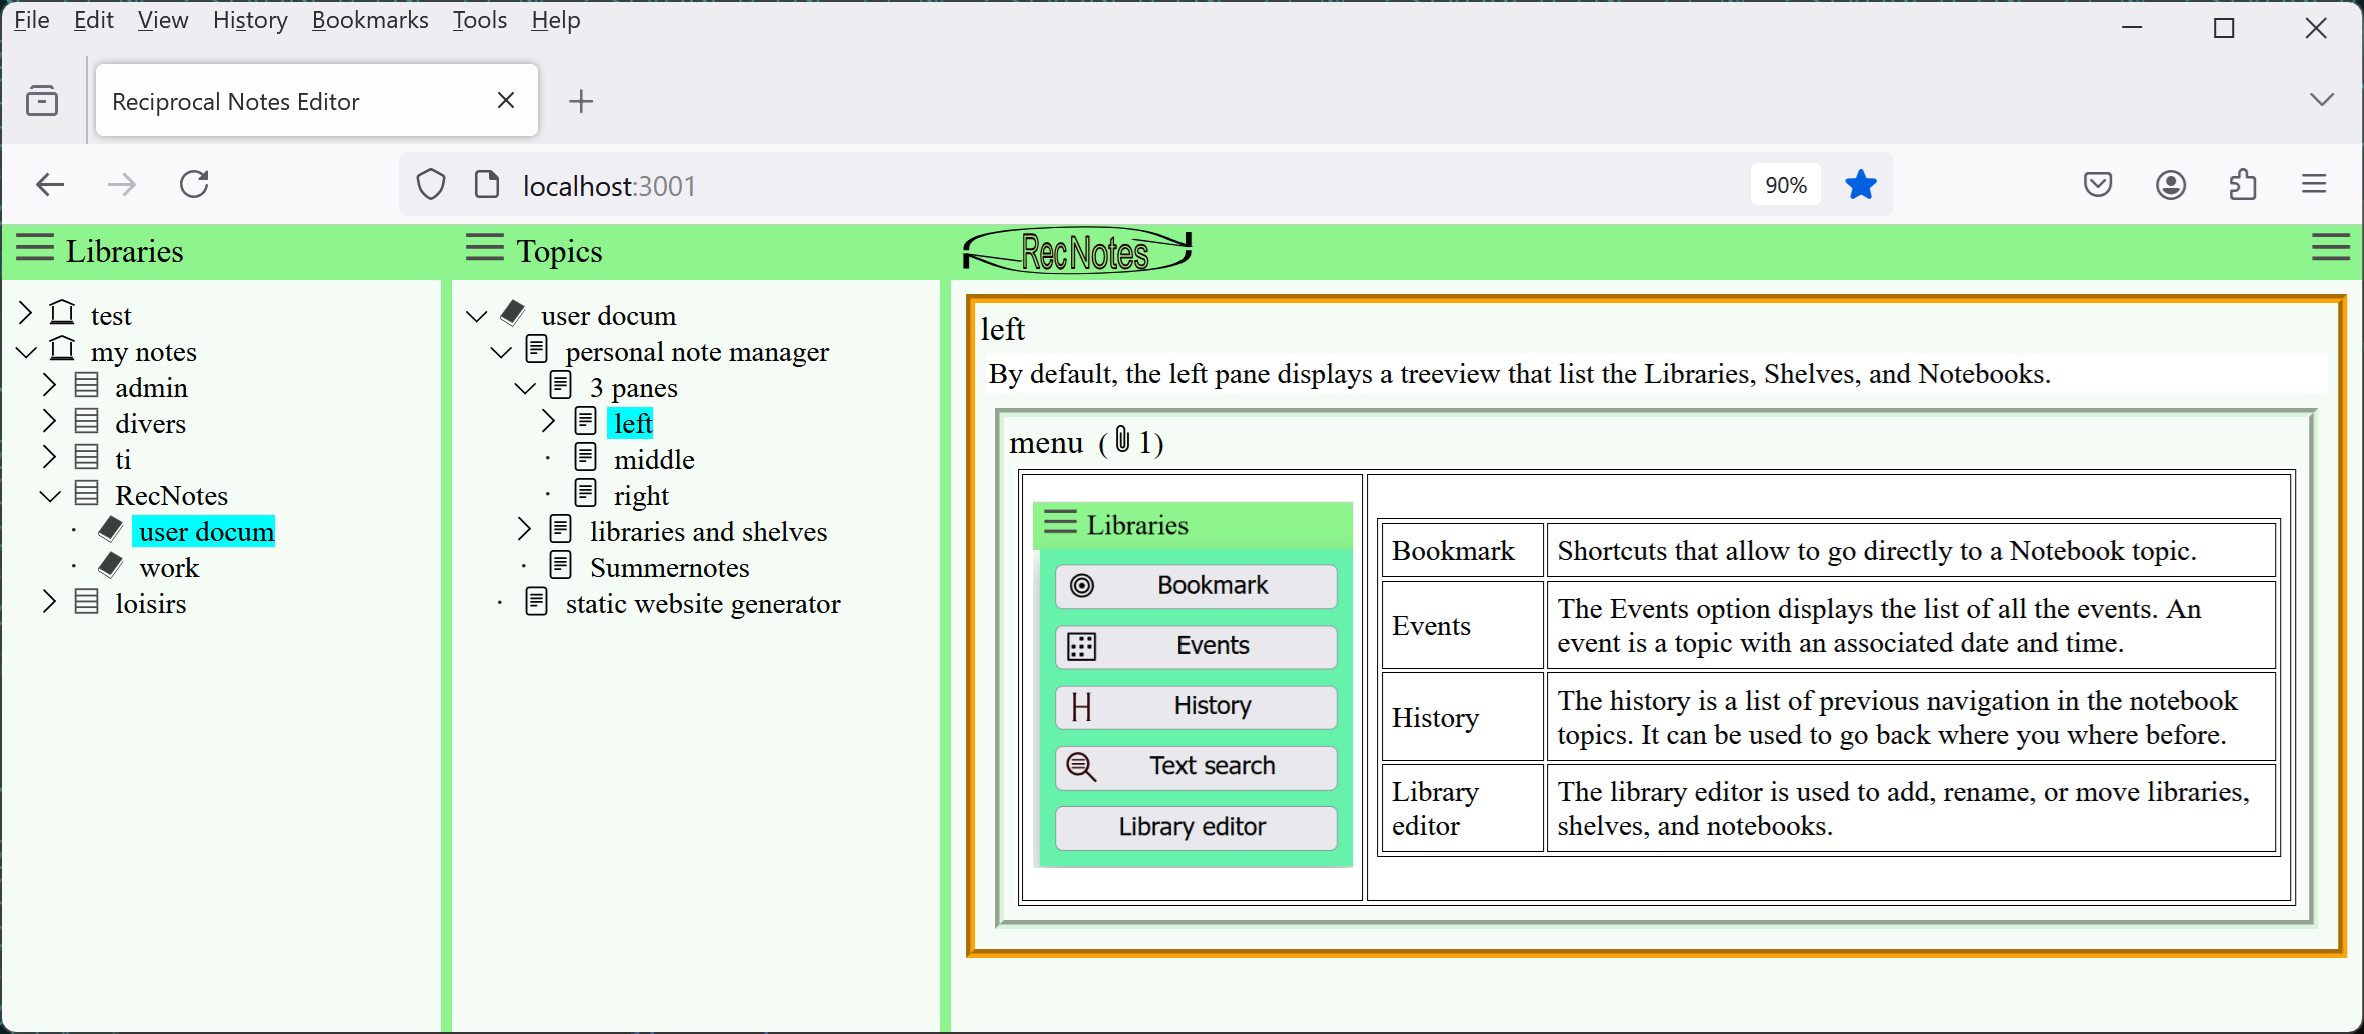
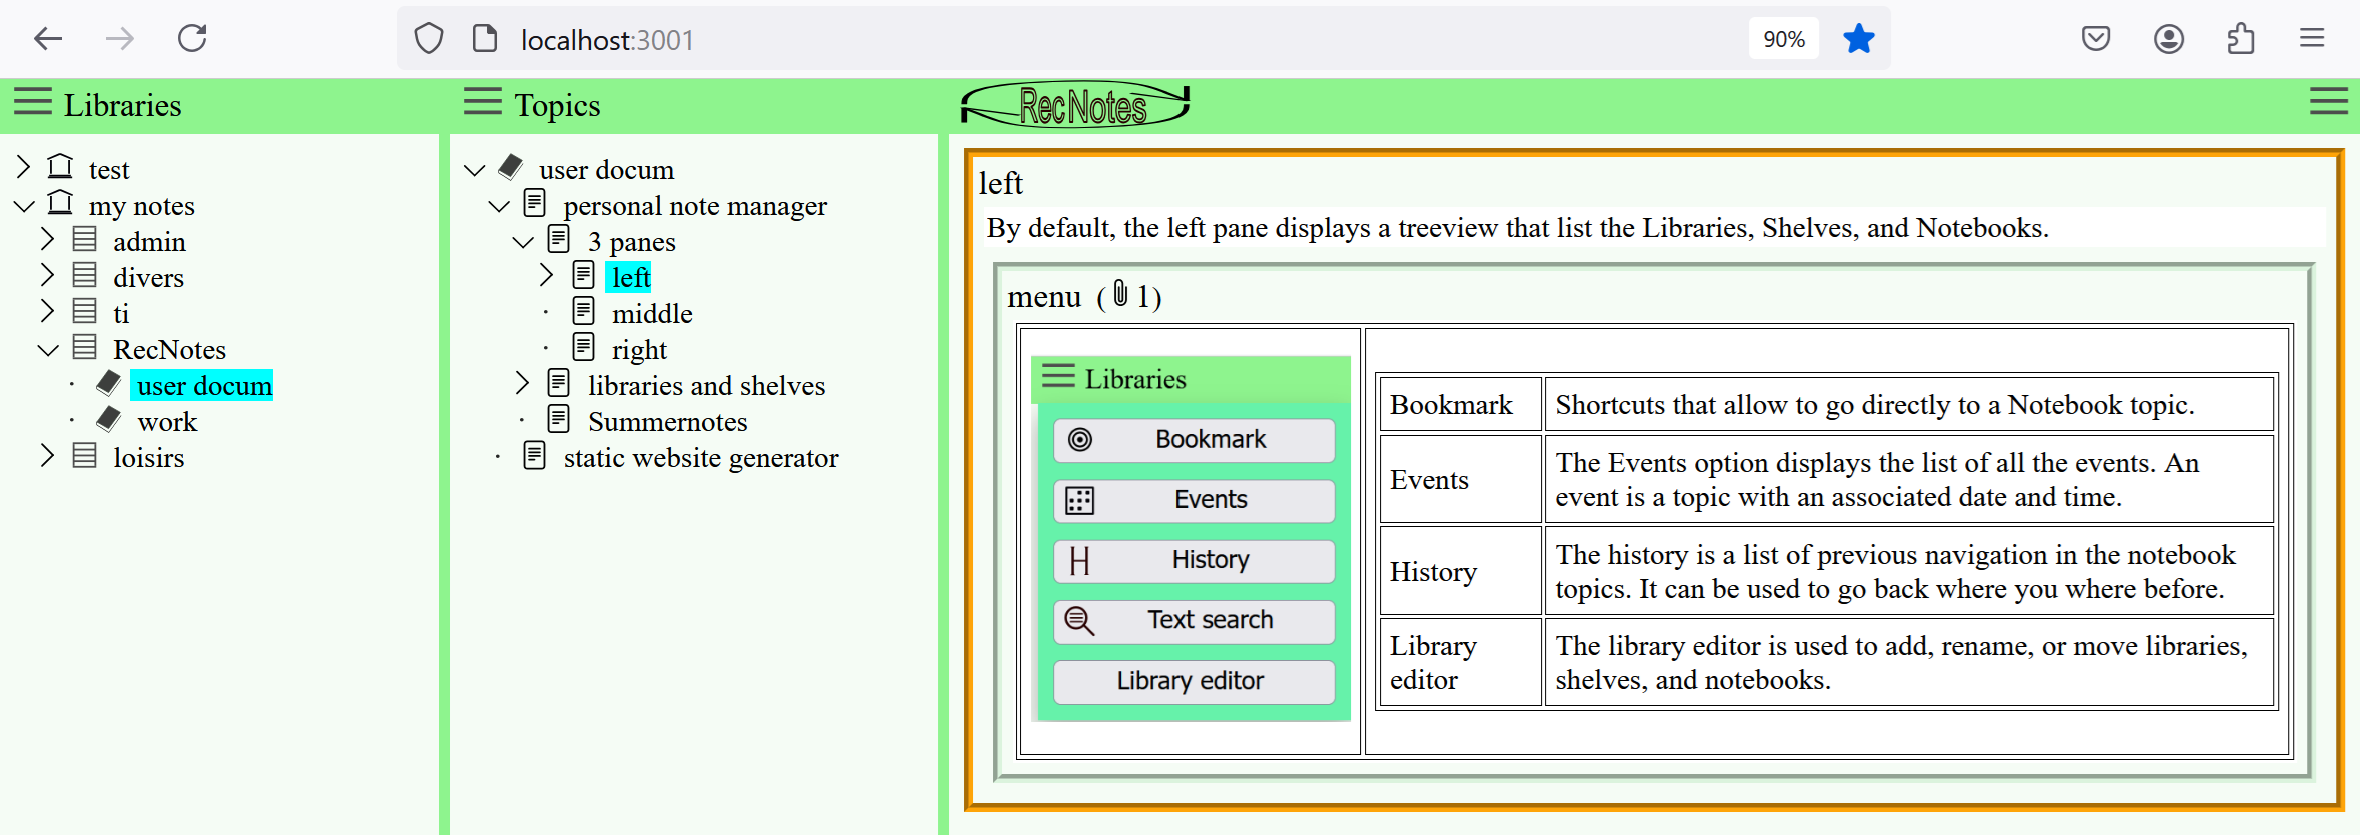
More info

diff --git a/htm/notebook776.htm b/htm/notebook776.htm
@@ -1,1 +1,1 @@
-<nodeKids><node id="t776"><img class="actionIcon" src="svg/right-arrow.svg" onclick='ui.tvToggleChildrenView("t776")'><img src="svg/notebook.svg"><nodeTitle  onclick='window.ui.topicTreeview.click("t776")'> user docum</nodeTitle><nodeKids style="visibility: collapse;"><node id="t777"><img class="actionIcon" src="svg/right-arrow.svg" onclick='ui.tvToggleChildrenView("t777")'><img src="svg/page.svg"><nodeTitle  onclick='window.ui.topicTreeview.click("t777")'> personal note manager</nodeTitle><nodeKids style="visibility: collapse;"><node id="t782"><img class="actionIcon" src="svg/right-arrow.svg" onclick='ui.tvToggleChildrenView("t782")'><img src="svg/page.svg"><nodeTitle  onclick='window.ui.topicTreeview.click("t782")'> 3 panes</nodeTitle><nodeKids style="visibility: collapse;"><node id="t783"><img class="actionIcon" src="svg/right-arrow.svg" onclick='ui.tvToggleChildrenView("t783")'><img src="svg/page.svg"><nodeTitle  onclick='window.ui.topicTreeview.click("t783")'> left</nodeTitle><nodeKids style="visibility: collapse;"><node id="t786"><img src="svg/dot.svg"><img src="svg/page.svg"><nodeTitle  onclick='window.ui.topicTreeview.click("t786")'> menu</nodeTitle></node></nodeKids></node><node id="t784"><img src="svg/dot.svg"><img src="svg/page.svg"><nodeTitle  onclick='window.ui.topicTreeview.click("t784")'> middle</nodeTitle></node><node id="t785"><img src="svg/dot.svg"><img src="svg/page.svg"><nodeTitle  onclick='window.ui.topicTreeview.click("t785")'> right</nodeTitle></node></nodeKids></node><node id="t779"><img class="actionIcon" src="svg/right-arrow.svg" onclick='ui.tvToggleChildrenView("t779")'><img src="svg/page.svg"><nodeTitle  onclick='window.ui.topicTreeview.click("t779")'> libraries and shelves</nodeTitle><nodeKids style="visibility: collapse;"><node id="t781"><img src="svg/dot.svg"><img src="svg/page.svg"><nodeTitle  onclick='window.ui.topicTreeview.click("t781")'> library editor</nodeTitle></node></nodeKids></node><node id="t780"><img src="svg/dot.svg"><img src="svg/page.svg"><nodeTitle  onclick='window.ui.topicTreeview.click("t780")'> Summernotes</nodeTitle></node></nodeKids></node><node id="t778"><img src="svg/dot.svg"><img src="svg/page.svg"><nodeTitle  onclick='window.ui.topicTreeview.click("t778")'> static website generator</nodeTitle></node></nodeKids></node></nodeKids>
+<nodeKids><node id="t776"><img class="actionIcon" src="svg/right-arrow.svg" onclick='ui.tvToggleChildrenView("t776")'><img src="svg/notebook.svg"><nodeTitle  onclick='window.ui.topicTreeview.click("t776")'> user docum</nodeTitle><nodeKids style="visibility: collapse;"><node id="t787"><img src="svg/dot.svg"><img src="svg/page.svg"><nodeTitle  onclick='window.ui.topicTreeview.click("t787")'> introduction</nodeTitle></node><node id="t777"><img class="actionIcon" src="svg/right-arrow.svg" onclick='ui.tvToggleChildrenView("t777")'><img src="svg/page.svg"><nodeTitle  onclick='window.ui.topicTreeview.click("t777")'> overview</nodeTitle><nodeKids style="visibility: collapse;"><node id="t782"><img class="actionIcon" src="svg/right-arrow.svg" onclick='ui.tvToggleChildrenView("t782")'><img src="svg/page.svg"><nodeTitle  onclick='window.ui.topicTreeview.click("t782")'> 3 panes</nodeTitle><nodeKids style="visibility: collapse;"><node id="t783"><img class="actionIcon" src="svg/right-arrow.svg" onclick='ui.tvToggleChildrenView("t783")'><img src="svg/page.svg"><nodeTitle  onclick='window.ui.topicTreeview.click("t783")'> left</nodeTitle><nodeKids style="visibility: collapse;"><node id="t786"><img src="svg/dot.svg"><img src="svg/page.svg"><nodeTitle  onclick='window.ui.topicTreeview.click("t786")'> menu</nodeTitle></node><node id="t791"><img src="svg/dot.svg"><img src="svg/page.svg"><nodeTitle  onclick='window.ui.topicTreeview.click("t791")'> libraries</nodeTitle></node><node id="t792"><img src="svg/dot.svg"><img src="svg/page.svg"><nodeTitle  onclick='window.ui.topicTreeview.click("t792")'> bookmarks</nodeTitle></node><node id="t793"><img src="svg/dot.svg"><img src="svg/page.svg"><nodeTitle  onclick='window.ui.topicTreeview.click("t793")'> events</nodeTitle></node><node id="t795"><img src="svg/dot.svg"><img src="svg/page.svg"><nodeTitle  onclick='window.ui.topicTreeview.click("t795")'> history</nodeTitle></node><node id="t794"><img src="svg/dot.svg"><img src="svg/page.svg"><nodeTitle  onclick='window.ui.topicTreeview.click("t794")'> text search</nodeTitle></node></nodeKids></node><node id="t784"><img class="actionIcon" src="svg/right-arrow.svg" onclick='ui.tvToggleChildrenView("t784")'><img src="svg/page.svg"><nodeTitle  onclick='window.ui.topicTreeview.click("t784")'> middle</nodeTitle><nodeKids style="visibility: collapse;"><node id="t789"><img src="svg/dot.svg"><img src="svg/page.svg"><nodeTitle  onclick='window.ui.topicTreeview.click("t789")'> menu</nodeTitle></node></nodeKids></node><node id="t785"><img class="actionIcon" src="svg/right-arrow.svg" onclick='ui.tvToggleChildrenView("t785")'><img src="svg/page.svg"><nodeTitle  onclick='window.ui.topicTreeview.click("t785")'> right</nodeTitle><nodeKids style="visibility: collapse;"><node id="t790"><img src="svg/dot.svg"><img src="svg/page.svg"><nodeTitle  onclick='window.ui.topicTreeview.click("t790")'> menu</nodeTitle></node></nodeKids></node></nodeKids></node></nodeKids></node><node id="t778"><img src="svg/dot.svg"><img src="svg/page.svg"><nodeTitle  onclick='window.ui.topicTreeview.click("t778")'> static website generator</nodeTitle></node></nodeKids></node></nodeKids>

diff --git a/htm/page786.htm b/htm/page786.htm
@@ -1,1 +1,1 @@
-<pageTitle onclick="window.ui.pageTitleClick(event)">menu</pageTitle><br><pageContent><table class="table table-bordered"><tbody><tr><td><img src="/RecNotes-Example/attachment/786/left menu.png" style="width: 200px;"></td><td><br><table class="table table-bordered"><tbody><tr><td>Bookmark</td><td>Shortcuts that allow to go directly to a Notebook topic.<br></td></tr><tr><td>Events<br></td><td>The Events option displays the list of all the events. An event is a topic with an associated date and time. <br></td></tr><tr><td>History<br></td><td>The history is a list of previous navigation in the notebook topics. It can be used to go back where you where before.<br></td></tr><tr><td>Library editor<br></td><td>The library editor is used to add, rename, or move libraries, shelves, and notebooks.<br></td></tr></tbody></table><br></td></tr></tbody></table></pageContent>
+<pageTitle onclick="window.ui.pageTitleClick(event)">menu</pageTitle><br><pageContent><table class="table table-bordered"><tbody><tr><td><img src="/RecNotes-Example/attachment/786/left menu.png" style="width: 180px;"></td><td><br><table class="table table-bordered"><tbody><tr><td>Bookmark</td><td>Shortcuts that allow to go directly to a Notebook topic.<br></td></tr><tr><td>Events<br></td><td>The Events option displays the list of all the events. An event is a topic with an associated date and time. <br></td></tr><tr><td>History<br></td><td>The history is a list of previous navigation in the notebook topics. It can be used to go back where you where before.<br></td></tr><tr><td>Library editor<br></td><td>The library editor is used to add, rename, or move libraries, shelves, and notebooks.<br></td></tr></tbody></table><br></td></tr></tbody></table></pageContent>

diff --git a/htm/page789.htm b/htm/page789.htm
@@ -1,0 +1,1 @@
+<pageTitle onclick="window.ui.pageTitleClick(event)">menu</pageTitle><br><pageContent><br><table class="table table-bordered"><tbody><tr><td><img src="/RecNotes-Example/attachment/789/topic menu.png" style="width: 180px;"><br></td><td><br><table class="table table-bordered"><tbody><tr><td>Add topic<br></td><td>Add a topic note before, after, or as a child of the selected topic.<br></td></tr><tr><td>Move up and down<br></td><td>Move a topic up or down in the list of sibling topics.<br></td></tr><tr><td>Move<br></td><td>Move the selected topic anywhere, including into another notebook.<br></td></tr><tr><td>Event topic<br></td><td>Transform the selected topic into an event topic with date and time and event tag.<br></td></tr><tr><td>File attachment<br></td><td>Add, remove, delete file attachments. Also, include an image into the selected topic.<br></td></tr><tr><td>Delete topic<br></td><td>Delete the selected topic.<br></td></tr><tr><td>Add link<br></td><td>Add a reciprocal link to another topic.<br></td></tr></tbody></table><br></td></tr></tbody></table></pageContent>

diff --git a/htm/page782.htm b/htm/page782.htm
@@ -1,1 +1,1 @@
-<pageTitle onclick="window.ui.pageTitleClick(event)">3 panes</pageTitle><br><pageContent>Screen capture of a Firefox tab with the Reciprocal Notes editor. On the left pane, the user docum notebook is selected. On the middle pane, the left topic of the 3 panes topic is selected. Finally the right pane display the notes taken regarding the selected topic.<br><img src="/RecNotes-Example/attachment/782/recnotes-editor.png" style="width: 800px;"></pageContent>
+<pageTitle onclick="window.ui.pageTitleClick(event)">3 panes</pageTitle><br><pageContent>Screen capture of a Firefox tab with the Reciprocal Notes editor. On the left pane, the user docum notebook is selected. On the middle pane, the left topic of the 3 panes topic is selected. Finally the right pane display the notes taken regarding the selected topic.<br><img src="/RecNotes-Example/attachment/782/recnotes-editor.png" style="width: 1000px;"></pageContent>

diff --git a/htm/page790.htm b/htm/page790.htm
@@ -1,0 +1,1 @@
+<pageTitle onclick="window.ui.pageTitleClick(event)">menu</pageTitle><br><pageContent><table class="table table-bordered"><tbody><tr><td><img src="/RecNotes-Example/attachment/790/system menu.png" style="width: 180px;"></td><td><br><table class="table table-bordered"><tbody><tr><td>Preferences</td><td>Page preference: read only, text only.<br></td></tr><tr><td>System info<br></td><td>Server folders, system table.<br></td></tr><tr><td>User info<br></td><td>Might be used in the future.<br></td></tr><tr><td>Attachment report<br></td><td>List of attachment files.<br></td></tr><tr><td>Deployment<br></td><td>Static website generation<br></td></tr></tbody></table><br></td></tr></tbody></table></pageContent>

diff --git a/htm/page792.htm b/htm/page792.htm
@@ -1,0 +1,1 @@
+<pageTitle onclick="window.ui.pageTitleClick(event)">bookmarks</pageTitle><br><pageContent><table class="table table-bordered"><tbody><tr><td><img src="/RecNotes-Example/attachment/792/Bookmarks.png" style="width: 300px;"></td><td>Bookmarks allow to access any topic within all libraries. When you see the bookmarks, you can either click on them or hover the Bookmark menu to add the actually selected topic as a new bookmark or access the Bookmark editor.<br></td></tr><tr><td><img src="/RecNotes-Example/attachment/792/Bookmark editor.png" style="width: 600px;"></td><td>The Bookmark editor allows to add, reorder, delete, or modify bookmarks.<br></td></tr></tbody></table></pageContent>

diff --git a/htm/page794.htm b/htm/page794.htm
@@ -1,0 +1,1 @@
+<pageTitle onclick="window.ui.pageTitleClick(event)">text search</pageTitle><br><pageContent><table class="table table-bordered"><tbody><tr><td>Type any text in the search box and hit enter, the application will lookup all topic titles and the page content of all pages and display the resulting paths that you can use to get to the related topics.<br></td><td><img src="/RecNotes-Example/attachment/794/text search.png" style="width: 500px;"></td></tr></tbody></table></pageContent>

diff --git a/htm/page795.htm b/htm/page795.htm
@@ -1,0 +1,1 @@
+<pageTitle onclick="window.ui.pageTitleClick(event)">history</pageTitle><br><pageContent><table class="table table-bordered"><tbody><tr><td>The history is the list of topics that were visited by the user. You can click on one of the paths to get there or use the left arrow to visit previous topics one by one.<br></td><td><img src="/RecNotes-Example/attachment/795/history.png" style="width: 500px;"></td></tr></tbody></table></pageContent>

diff --git a/htm/page791.htm b/htm/page791.htm
@@ -1,0 +1,1 @@
+<pageTitle onclick="window.ui.pageTitleClick(event)">libraries</pageTitle><br><pageContent><table class="table table-bordered"><tbody><tr><td><img src="/RecNotes-Example/attachment/791/libraries.png" style="width: 500px;"></td><td>The Library editor allows to add, move, and change names of Libraries, Shelves, and Notebooks.<br>Note: missing options should be added later (delete).<br></td></tr></tbody></table></pageContent>

diff --git a/htm/page787.htm b/htm/page787.htm
@@ -1,0 +1,1 @@
+<pageTitle onclick="window.ui.pageTitleClick(event)">introduction</pageTitle><br><pageContent>The Reciprocal Note Editor is an application I built to manage my personal notes. I wanted something that support managed reciprocal links. This document provides an overview of how to use the Reciprocal Notes Editor.<br>Note: This static web page was generated using the Reciprocal Notes Editor.</pageContent>

diff --git a/htm/page793.htm b/htm/page793.htm
@@ -1,0 +1,1 @@
+<pageTitle onclick="window.ui.pageTitleClick(event)">events</pageTitle><br><pageContent><table class="table table-bordered"><tbody><tr><td>Events<br></td><td><img src="/RecNotes-Example/attachment/793/events.png" style="width: 60%;"></td></tr><tr><td>E<br></td><td><img src="/RecNotes-Example/attachment/793/event menu and tag editor.png" style="width: 60%;"></td></tr></tbody></table></pageContent>

diff --git a/htm/page784.htm b/htm/page784.htm
@@ -1,1 +1,1 @@
-<pageTitle onclick="window.ui.pageTitleClick(event)">middle</pageTitle><br>
+<pageTitle onclick="window.ui.pageTitleClick(event)">middle</pageTitle><br><pageContent>Most of the time, the middle pane displays a treeview showing all the topics of the Notebook selected on the left pane.</pageContent>
